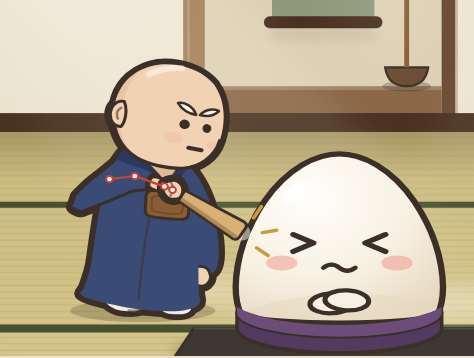
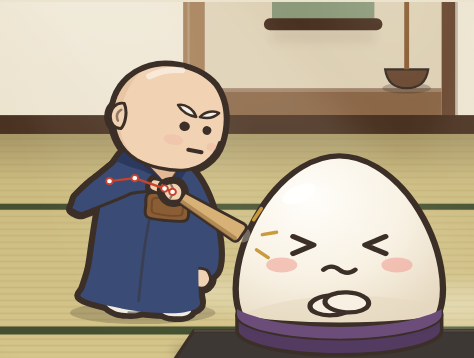
Design round 3.4: keep the keisaku visible through the swing
In 3.3 the board stayed behind the monk's head until the last 20% of
the swing, so at 767 ms it vanished and reappeared beside the mochi.
The near arm is the one nearer to us, so for the whole swing the arm,
fist and board are now drawn in front of the head, with the sleeve's
own outline where it crosses it; the board only passes the ear and
back-of-head side and never covers the eyes or brows. The motion trail
is lowered from 0.5 to 0.3 opacity, which reads better at phone size.
Hit point, timings, wind-up, hold and follow-through are unchanged.

The review page adds the 733/750/767/783/800 ms sequence before and
after, a phone-size before/after at 767 ms and the trail comparison;
anim-frames/ is regenerated with these frames added.

Claude-Session: https://claude.ai/code/session_01QSkYffWcUdESKEcqqqqF1p

diff --git a/design/round3/index.html b/design/round3/index.html
@@ -266,6 +266,16 @@ tr:last-child td { border-bottom: 0; }
 <p class="note">依目前時間表取出的影格（60 fps 時間點）。同樣的影格也存成圖片放在 <code>design/round3/anim-frames/</code>。</p>
 <div class="grid g4" id="pvFrames"></div>
 
+<h3 id="swingfix">揮下中段的可見性修正（Round 3.4）</h3>
+<p class="note">修改前（3.3）：為了不擋臉，香板在揮下最後 20% 之前都畫在頭後面，767 ms 那一格整根香板和手臂都被頭蓋住，只剩速度殘影。修改後：靠近鏡頭的那隻手臂越過頭頂時本來就在頭的前面，所以整段揮下（700–790 ms）讓手臂、拳頭、香板都畫在頭前面；手臂加一條自己的外框線，和臉分開。量過每一格：香板只經過耳朵與後腦那一側（最左到 x −7），眼睛與眉毛所在的範圍（x 3–22、y −83～−68）沒有任何一格被蓋到。命中位置、時間、預備、停頓、收勢都沒有改。</p>
+<h3>連續影格：733・750・767・783・800 ms</h3>
+<div class="grid" id="swFrames" style="grid-template-columns:repeat(5,minmax(0,1fr))"></div>
+<h3>手機實際尺寸：修改前／修改後（767 ms）</h3>
+<div class="row" id="swPhone"></div>
+<h3>速度殘影：原本／降低透明度（修改後，手機尺寸）</h3>
+<p class="note" id="swTrailNote">兩種都已套用修改後的圖層。手機尺寸下，0.5 的殘影在頭頂上方像一圈光環，比香板本身還搶眼；0.3 仍看得出揮動方向，香板更突出。<b>採用 0.3</b>（預覽與影格都已換成 0.3）。</p>
+<div class="row" id="swTrail"></div>
+
 <h3>實作計畫</h3>
 <ol>
   <li><b>骨架與關鍵姿勢資料</b>：每個姿勢記錄肩、肘、腕、拳頭位置與袖子輪廓。已具備：站姿、袖手、垂放、舉起、預備、揮下、收勢（見上方「關鍵姿勢」）→ 等你確認。</li>
@@ -465,7 +475,7 @@ $('#keyScenes').innerHTML = `<figure style="margin:0">${sceneFront('day', art({ 
     $('#pvCheck').innerHTML = `<b>自動檢查</b><ul style="margin:6px 0 0;padding-left:20px;font-size:14px">
       <li>命中點（香板尖端，命中停格開始時）在麻糬座標 (${lx.toFixed(1)}, ${ly.toFixed(1)})：麻糬高 68、寬 72，落在${side}側、離底部約 ${Math.round(-ly / 68 * 100)}% 高（大約眼睛高度）的側面，不是頭頂正上方（頭頂在 (0, −68)）。</li>
       <li>香板外側 40% 進入麻糬身體的影格：${data.inside.length ? data.inside.map(x => `${x.t} ms（${x.seg}）`).join('、') : '<b>沒有</b>（每 1/60 秒檢查一次，命中停格與麻糬被壓扁時也算）'}。</li>
-      <li>香板位置每一格都由拳頭與手腕角度計算，沒有獨立的香板動畫。</li><li>圖層：香板在揮下最後 20%、命中、收勢時才移到麻糬前面；經過住持頭頂的那幾格走在頭後面，所以不會蓋住臉。</li></ul>`;
+      <li>香板位置每一格都由拳頭與手腕角度計算，沒有獨立的香板動畫。</li><li>圖層（3.4）：整段揮下時手臂、拳頭、香板都畫在頭前面，香板只經過耳朵與後腦一側，不遮眼睛與眉毛；揮下、命中、收勢時香板在麻糬前面一層，住持身體始終在麻糬後面。</li></ul>`;
     $('#pvTotal').textContent = `總長 ${Math.round(A.total())} ms（含前後各一段靜止）；提醒段（預備＋停頓＋揮下＋停格）${A.T.windup + A.T.hold + A.T.swing + A.T.stop} ms。`;
     $('#pvScrub').max = Math.round(A.total());
     renderFrames();
@@ -502,6 +512,19 @@ $('#keyScenes').innerHTML = `<figure style="margin:0">${sceneFront('day', art({ 
     $('#pvFrames').querySelectorAll('.pvf').forEach((el, i) => { const v = A.makeView(el, '80 140 176 132'); A.draw(v, snap(list[i][0]), { skeleton: true, trace: false }); });
   }
   analyseAll(); render();
+})();
+</script>
+<script>
+(() => {
+  const A = KEISAKU_ANIM, $ = s => document.querySelector(s), FR = 1000 / 60;
+  const T5 = [733, 750, 767, 783, 800];
+  const cell = (t, opts, cap) => { const f = document.createElement('figure'); f.className = 'tile'; f.style.margin = 0; f.innerHTML = `<div></div><figcaption>${cap}</figcaption>`; const v = A.makeView(f.firstChild, '80 140 176 132'); A.draw(v, t, opts); return f; };
+  const row = $('#swFrames');
+  T5.forEach(t => row.appendChild(cell(t, { legacy: true }, `修改前・${t} ms`)));
+  T5.forEach(t => row.appendChild(cell(t, {}, `修改後・${t} ms`)));
+  const phone = (t, opts, cap) => { const f = document.createElement('figure'); f.style.margin = 0; f.innerHTML = `<div style="width:368px;max-width:100%;border-radius:14px;overflow:hidden"></div><figcaption class="note">${cap}</figcaption>`; const v = A.makeView(f.firstChild, '0 0 400 300'); A.draw(v, t, opts); return f; };
+  $('#swPhone').append(phone(767, { legacy: true }, '修改前・767 ms'), phone(767, {}, '修改後・767 ms'));
+  $('#swTrail').append(phone(767, { trailOp: .5 }, '殘影 0.5（原本）・767 ms'), phone(767, { trailOp: .3 }, '殘影 0.3（採用）・767 ms'), phone(783, { trailOp: .5 }, '殘影 0.5（原本）・783 ms'), phone(783, { trailOp: .3 }, '殘影 0.3（採用）・783 ms'));
 })();
 </script>
 </body>

diff --git a/design/round3/monk4.js b/design/round3/monk4.js
@@ -240,7 +240,7 @@
     const fill = (d, c, s) => `<path class="m4p" d="${d}" style="--c:${c}" ${s ? 'data-s="1"' : ''}/>`;
     const det = s => `<g class="m4det">${s}</g>`;
     const Ln = (pts, w = 1.15, op = 1) => lines ? L(spline(pts, false), w, op) : '';
-    const out = [], front = [];
+    const out = [], front = [], late = [];
     if (p.farBehind) out.push(fill(spline(p.far), ART.robe) + (p.farHand ? fill(spline(p.farHand), ART.skin, 1) : ''));
     if (p.farBack) out.push(fill(spline(p.farBack), ART.robe));
     out.push(fill(spline(FEET.far), ART.foot) + fill(spline(FEET.near), ART.foot) + det(lines ? L('M1.6 -0.8 C1.6 1 -1 1.6 -4 1.7', .9, .5) : ''));
@@ -269,11 +269,14 @@
       if (p.swoosh) out.push(det(`<path d="M16 -97 C36 -90 46 -66 40 -38" style="fill:none;stroke:#fffaf0;stroke-width:7;stroke-linecap:round;opacity:.5"/>
         <path d="M24 -96 C42 -86 50 -66 46 -46" style="fill:none;stroke:#fffaf0;stroke-width:1.3;stroke-linecap:round;opacity:.8"/>
         <path d="M30 -92 C46 -80 52 -66 50 -54" style="fill:none;stroke:#fffaf0;stroke-width:1;stroke-linecap:round;opacity:.6"/>`));
-      out.push(fill(spline(p.near), ART.robe) + det(p.nearLines.map(l => Ln(l)).join('') + (p.folds || []).map(l => Ln(l, .85, .45)).join('') + (p.extraLines || []).map(l => l.op > .02 ? Ln(l.pts, l.w || 1.1, l.op) : '').join('')));
-      if (p.cuffO) out.push(det(`<ellipse cx="${p.cuffO.cx}" cy="${p.cuffO.cy}" rx="${p.cuffO.rx}" ry="${p.cuffO.ry}" transform="rotate(${p.cuffO.r} ${p.cuffO.cx} ${p.cuffO.cy})" style="fill:#26345a;stroke:${ink};stroke-width:1"/>`));
-      if (p.skin) out.push(fill(spline(p.skin), ART.skin, 1));
+      // while the near arm swings over the head it is drawn in front of the head (it is the arm nearer to us);
+      // it then needs its own outline where it crosses the face
+      const arm = o.armOverHead ? late : out;
+      arm.push(fill(spline(p.near), ART.robe) + det(p.nearLines.map(l => Ln(l)).join('') + (p.folds || []).map(l => Ln(l, .85, .45)).join('') + (p.extraLines || []).map(l => l.op > .02 ? Ln(l.pts, l.w || 1.1, l.op) : '').join('') + (o.armOverHead ? L(spline(p.near), 1.2) : '')));
+      if (p.cuffO) arm.push(det(`<ellipse cx="${p.cuffO.cx}" cy="${p.cuffO.cy}" rx="${p.cuffO.rx}" ry="${p.cuffO.ry}" transform="rotate(${p.cuffO.r} ${p.cuffO.cx} ${p.cuffO.cy})" style="fill:#26345a;stroke:${ink};stroke-width:1"/>`));
+      if (p.skin) arm.push(fill(spline(p.skin), ART.skin, 1));
       // split: the keisaku and the fist holding it go on their own layer (above the mochi), the rest stays behind
-      const top = o.split && !o.stickBack ? front : out;
+      const top = o.split && !o.stickBack ? front : (o.armOverHead ? late : out);
       if (o.frontUnder) top.push(det(o.frontUnder));
       if (p.stick) top.push(det(stick(p.stick, { ...ART, band: ART.bandC }, ink)));
       if (p.hand) top.push(fill(spline(p.hand), ART.skin, 1) + det(Ln(p.handLine, .8, .55)));
@@ -287,6 +290,7 @@
       + fill(EAR, ART.skin, 1) + det(L('M-15 -74 q-2 1.8 -.4 4.4', .9, .55) + '<path d="M-7.4 -88.6 q5 -4.2 11 -4.6" style="fill:none;stroke:#fff;stroke-width:2.4;stroke-linecap:round;opacity:.5"/>'
       + `<ellipse cx="5.6" cy="-66.4" rx="3.6" ry="2" style="fill:var(--blush);opacity:${BLUSH[face]}"/><ellipse cx="19.6" cy="-66.2" rx="1.8" ry="1.6" style="fill:var(--blush);opacity:${BLUSH[face]}"/>`
       + FACE[face]() + BROW[face].map(brow).join('')) + '</g>');
+    out.push(...late);
     const flip = left ? ' transform="scale(-1 1)"' : '';
     const body = `rotate(${p.lean || 0}) scale(${p.sx || 1} ${p.sy || 1})`;
     if (o.split) return {

diff --git a/design/round3/anim.js b/design/round3/anim.js
@@ -138,7 +138,7 @@
     if (j.s.id === 'swing' || j.s.id === 'stop') {
       const pts = []; for (let k = 0; k <= 10; k++) pts.push(tipLocal(joints(Math.max(SEG[3].t0, j.t - 70 + 7 * k))));
       const mid = pts.map(q => q.map(v => v.toFixed(1)).join(' ')).join(' L');
-      trail = `<path d="M${mid}" style="fill:none;stroke:#fffaf0;stroke-width:6;stroke-linecap:round;stroke-linejoin:round;opacity:.5"/>`;
+      trail = `<path d="M${mid}" style="fill:none;stroke:#fffaf0;stroke-width:6;stroke-linecap:round;stroke-linejoin:round;opacity:${opts.trailOp ?? .3}"/>`;
     }
     let top = '';
     if (opts.skeleton) {
@@ -192,8 +192,10 @@
     // layering: the keisaku only comes up over the mochi for the end of the swing and after; while it passes over his
     // head it stays on the body layer, under the head, so it never covers his face
     const u = (j.t - j.s.t0) / ((j.s.t1 - j.s.t0) || 1);
-    const stickFront = ['stop', 'follow', 'post'].includes(j.s.id) || (j.s.id === 'swing' && u > .8);
-    const r = M.art({ id, poseObj: p, face: j.face, tilt: j.tilt, split: true, stickBack: !stickFront, frontUnder: trail, frontTop: top });
+    // opts.legacy = the 3.3 layering (board behind the head until the last 20% of the swing), kept for the comparison
+    const swinging = !opts.legacy && j.s.id === 'swing';
+    const stickFront = opts.legacy ? (['stop', 'follow', 'post'].includes(j.s.id) || (j.s.id === 'swing' && u > .8)) : (j.s.id === 'swing' || ['stop', 'follow', 'post'].includes(j.s.id));
+    const r = M.art({ id, poseObj: p, face: j.face, tilt: j.tilt, split: true, stickBack: !stickFront, armOverHead: swinging, frontUnder: trail, frontTop: top });
     view.monk.innerHTML = `<g transform="translate(${MONK_AT[0]} ${MONK_AT[1]})">${r.back}</g>`;
     view.front.innerHTML = `<g transform="translate(${MONK_AT[0]} ${MONK_AT[1]})">${r.front}</g>`;
     view.mochi.innerHTML = `<g transform="translate(${MOCHI_AT[0]} ${MOCHI_AT[1]}) scale(${m.sx.toFixed(3)} ${m.sy.toFixed(3)})">${mochiStatic(m.face, true)}</g>`;
@@ -201,5 +203,5 @@
     return j;
   }
 
-  window.KEISAKU_ANIM = { stickFrontAt: t => { const j = joints(t), u = (j.t - j.s.t0) / ((j.s.t1 - j.s.t0) || 1); return ['stop', 'follow', 'post'].includes(j.s.id) || (j.s.id === 'swing' && u > .8); }, T, build, total, SEG: () => SEG, joints, poseAt, mochiAt, analyse, makeView, draw, toWorld, tipLocal, MONK_AT, MOCHI_AT };
+  window.KEISAKU_ANIM = { stickFrontAt: t => { const j = joints(t), u = (j.t - j.s.t0) / ((j.s.t1 - j.s.t0) || 1); return ['swing', 'stop', 'follow', 'post'].includes(j.s.id); }, T, build, total, SEG: () => SEG, joints, poseAt, mochiAt, analyse, makeView, draw, toWorld, tipLocal, MONK_AT, MOCHI_AT };
 })();
